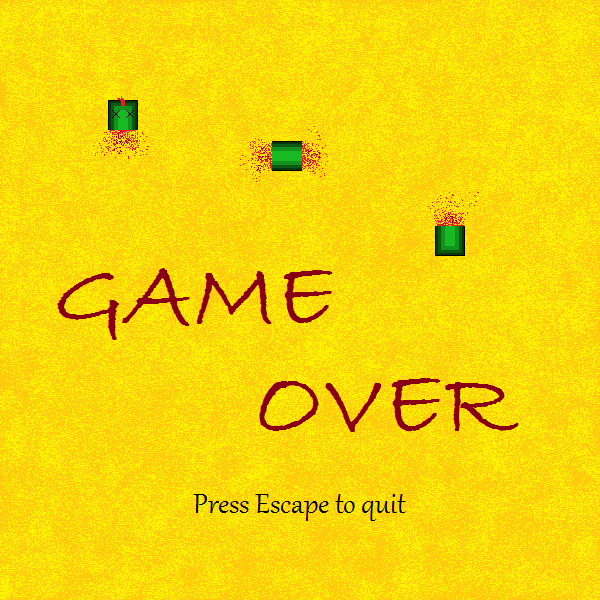
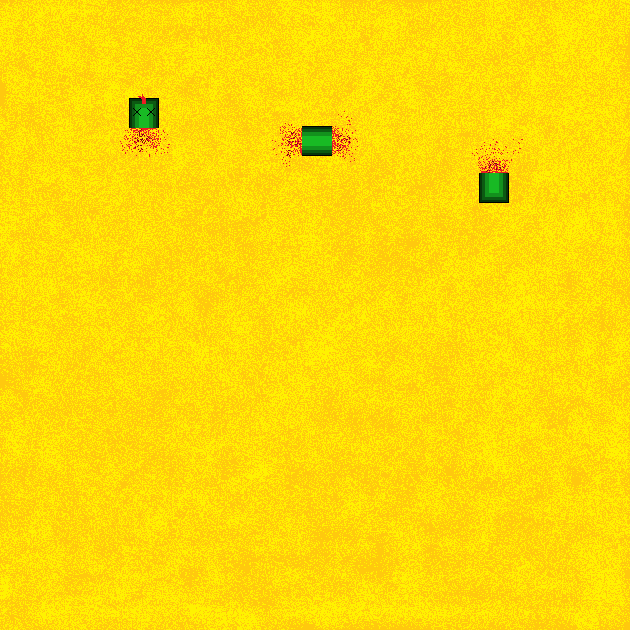
Added food, snake can eat but not grow

diff --git a/control.py b/control.py
@@ -3,20 +3,22 @@ import sys
 import pygame as pg
 import snake
 import snakeblock
+import food
 
 class Control():
     
     def __init__(self):
         os.environ['SDL_VIDEO_CENTERED'] = '1'
         pg.init()
-        pg.display.set_mode((570, 570))
+        pg.display.set_mode((630, 630))
         self.background = pg.image.load("sand.png").convert()
         self.game_over = pg.image.load("game_over.png").convert()
         self.screen = pg.display.get_surface()
         self.screen_rect = self.screen.get_rect()
         self.done = False
         self.keys = pg.key.get_pressed()
-        self.snake = snake.Snake(self.screen_rect.center)        
+        self.snake = snake.Snake(self.screen_rect.center)
+        self.food = food.Food(self.screen_rect.center, self.snake)
 
     # Handles key presses and quitting
     def event_loop(self):
@@ -36,10 +38,12 @@ class Control():
                 self.screen.blit(self.game_over, (0,0))
             else:
                 pg.time.delay(100) #for effect and slower speed
-                self.snake.update(self.screen_rect)    
+                self.snake.update(self.screen_rect)
+                self.food.update()
                 self.screen.blit(self.background, (0,0))
                 for part in self.snake.sprites:
                     self.screen.blit(part.image, part.rect)
+                self.screen.blit(self.food.image, self.food.rect)
             pg.display.update()
 
 if __name__ == "__main__":

diff --git a/food.py b/food.py
@@ -1,0 +1,30 @@
+import pygame as pg
+import random
+import control
+
+class Food():
+
+    def __init__(self, center, snake):
+        self.snake = snake
+
+        # Start with food above snake
+        self.rect = pg.Rect((0, 0, 30, 30))
+        self.rect.center = center
+        self.rect = self.rect.move(0, -60)
+        self.image = pg.image.load("meat.png").convert()
+
+    def move(self):
+        x = random.randint(0, 600)
+        x = ((x/30) * 30) + 15
+        y = random.randint(0, 600)
+        y = ((y/30) * 30) + 15
+        self.rect.center = (x, y)
+        for block in self.snake.sprites:
+            if self.rect.colliderect(block.rect):
+                self.move()
+
+    def update(self):
+        if self.rect.colliderect(self.snake.sprites[0].rect):
+            self.move()
+
+    

diff --git a/snake.py b/snake.py
@@ -10,7 +10,7 @@ DIRECT_DICT = {pg.K_LEFT: (-1, 0),
 class Snake():
 
     def __init__(self, center, starting_direction = pg.K_UP):
-        front = snakeblock.SnakeBlock("head", (0,0,30,30), pg.K_UP, pg.K_DOWN)
+        front = snakeblock.SnakeBlock("head", (0, 0, 30, 30), pg.K_UP, pg.K_DOWN)
         front.rect.center = center
         mid_rect = front.rect.move(0, 30)
         end_rect = mid_rect.move(0, 30)
@@ -71,7 +71,7 @@ class Snake():
                                                      self.old_direction)
             
         #Checks for collision with screen edges
-        clamped = self.sprites[0].rect.clamp(0,0,600,600)
+        clamped = self.sprites[0].rect.clamp(screen_rect)
         if clamped != self.sprites[0].rect:
             self.dead = True
 
